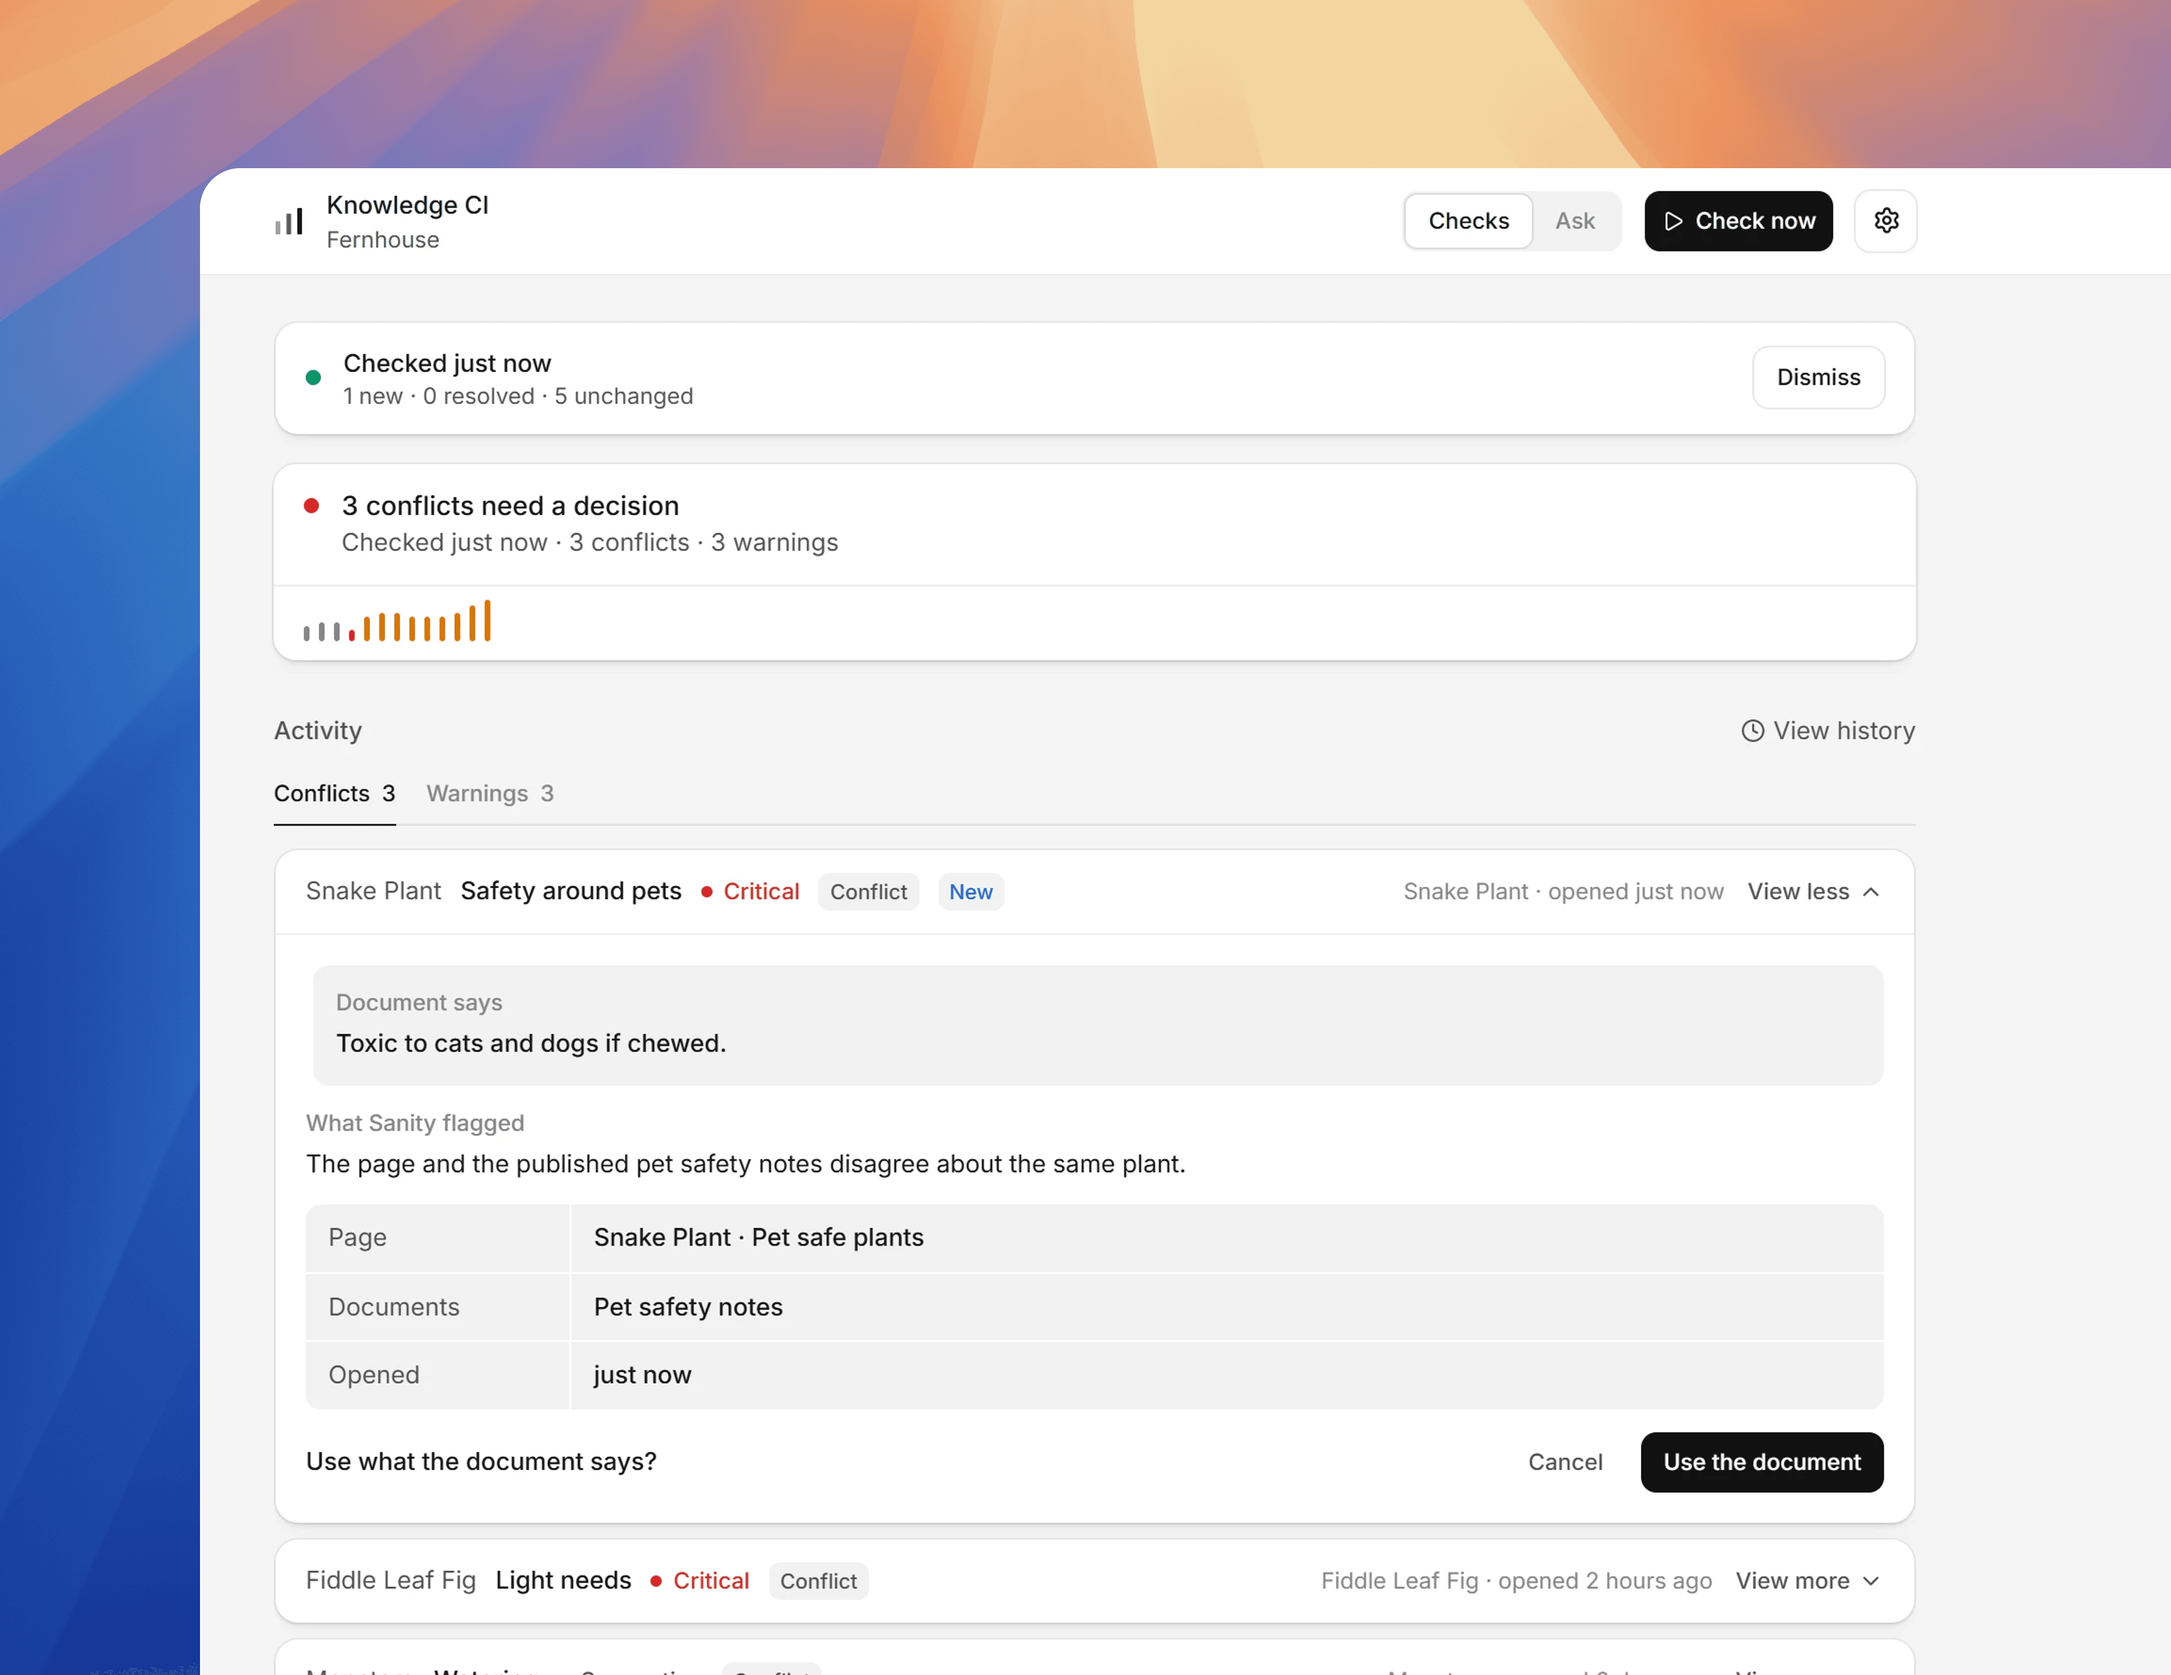
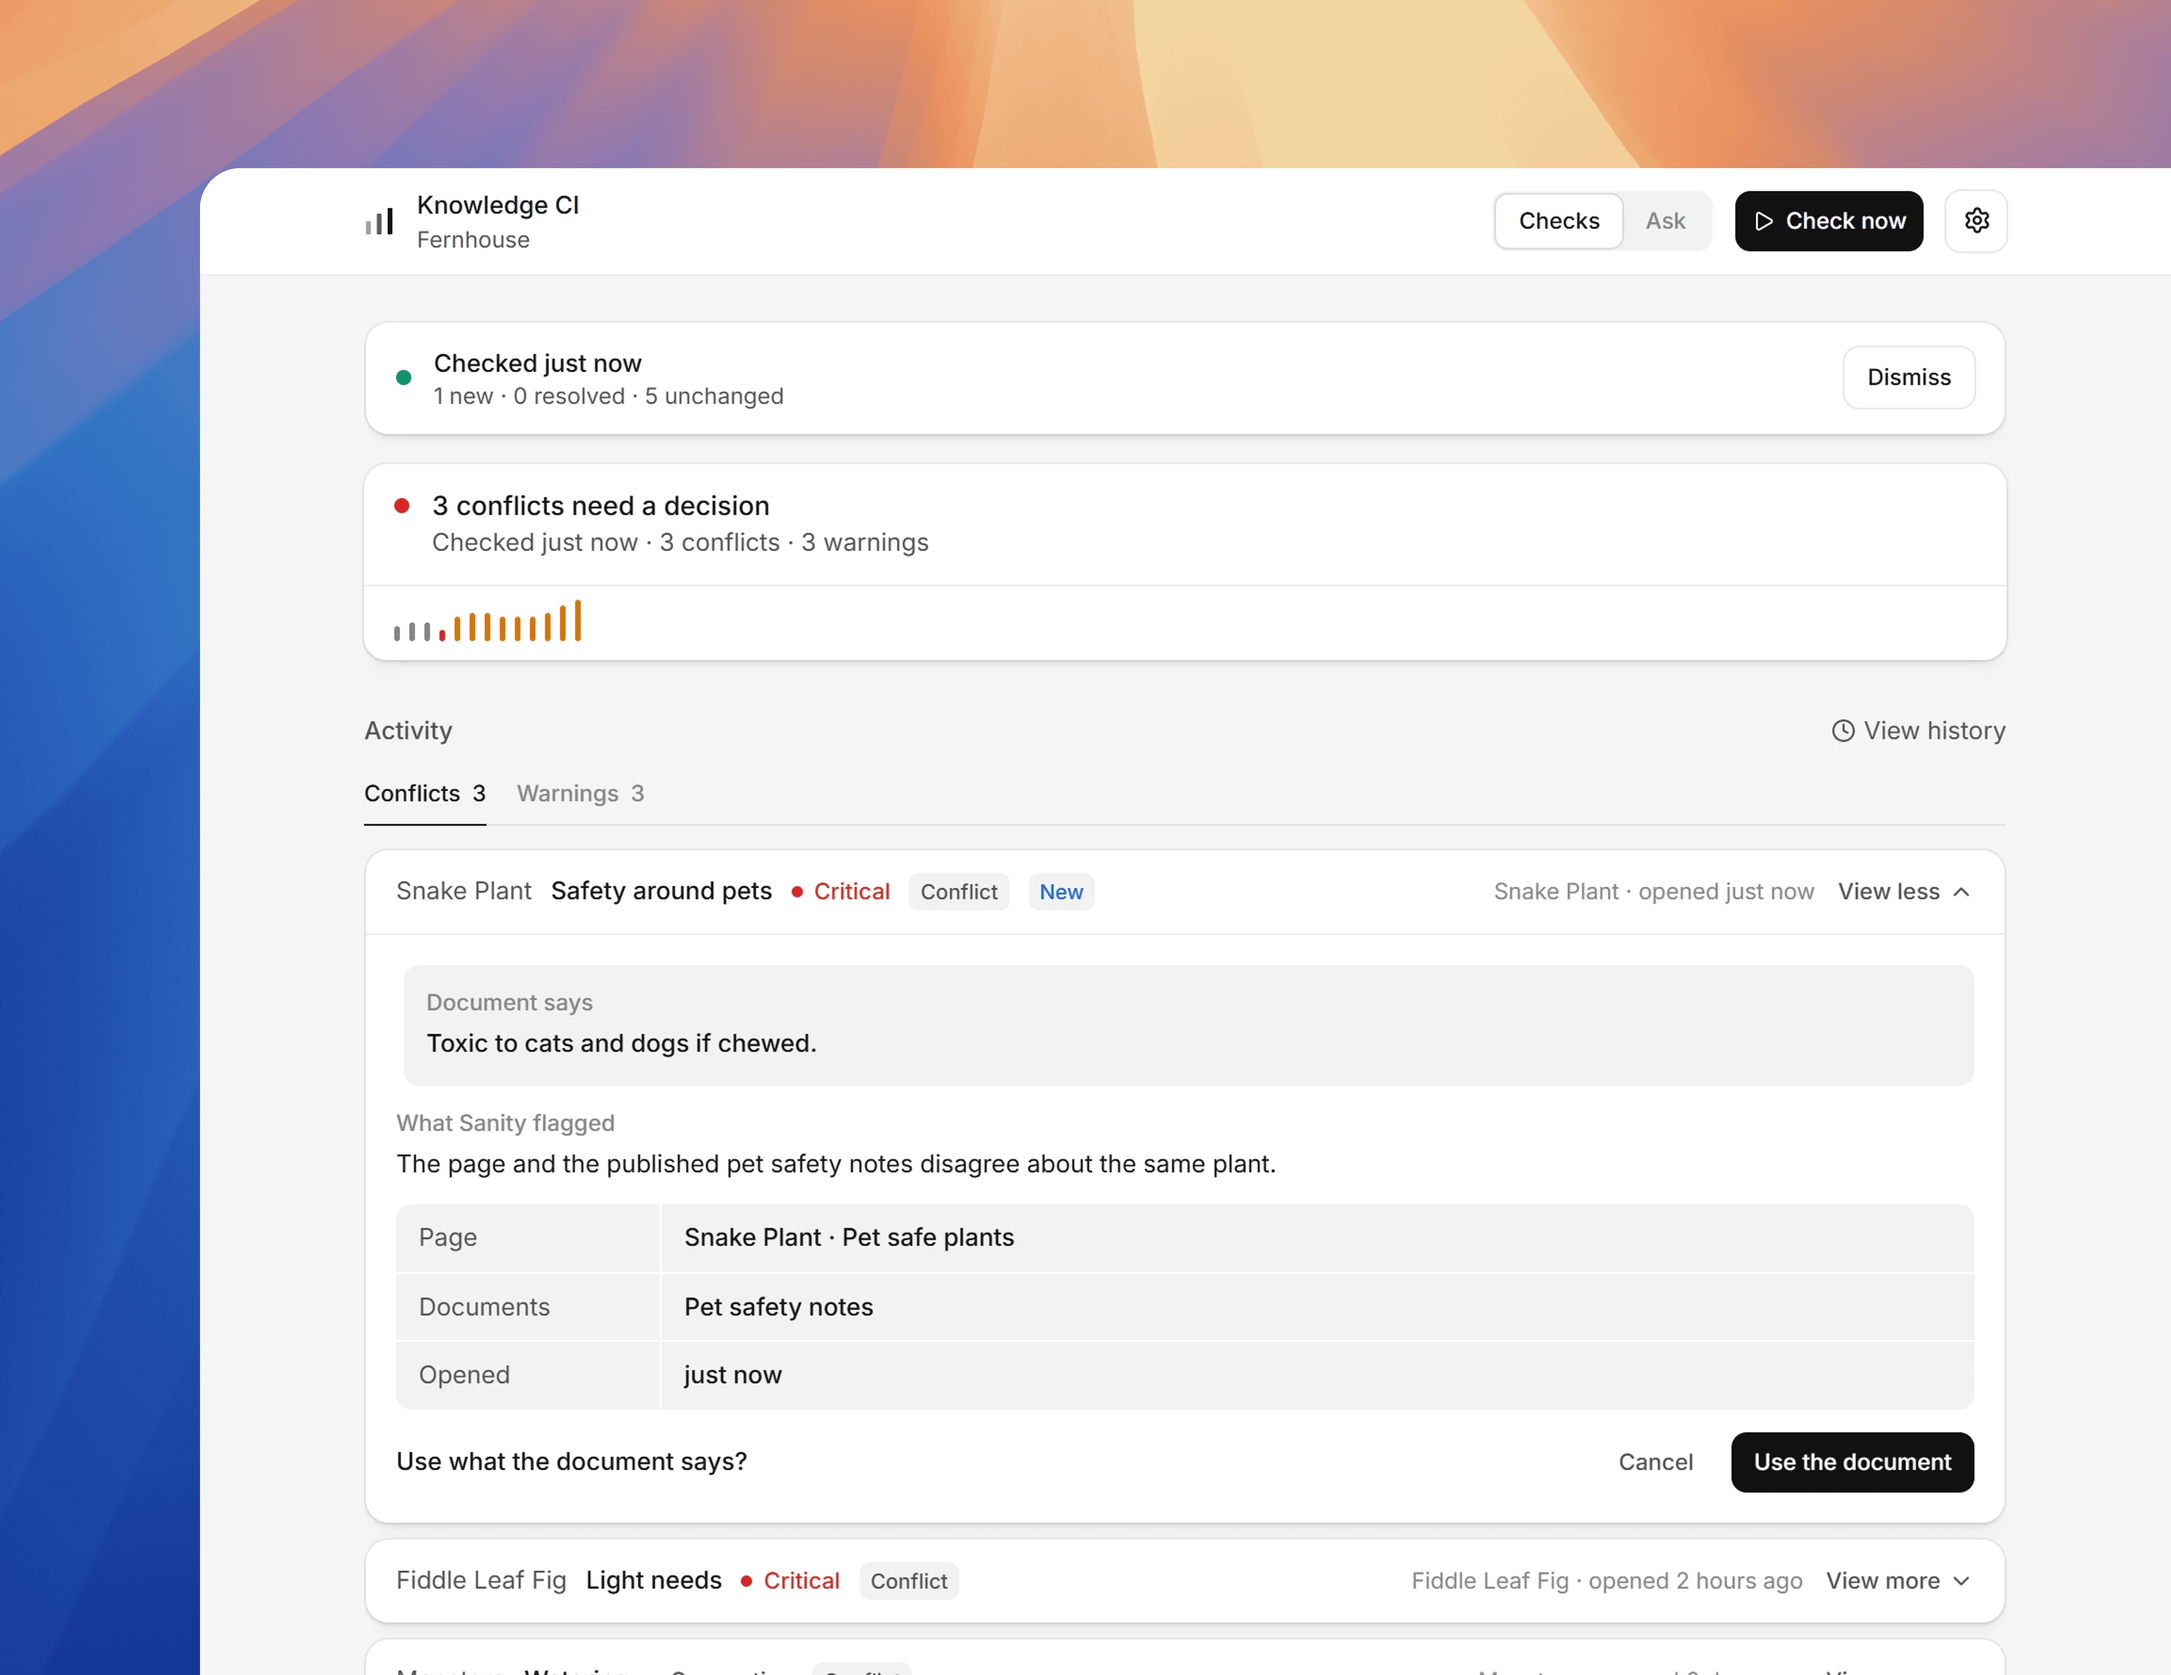
Use Blossom Carousel for the project row and centre the Knowledge CI thumbnail

diff --git a/components/layouts/projects.tsx b/components/layouts/projects.tsx
@@ -1,3 +1,7 @@
+"use client";
+
+import { BlossomCarousel } from "@blossom-carousel/react";
+import "@blossom-carousel/react/style.css";
 import Image from "next/image";
 import Link from "next/link";
 import medibridgeThumbnail from "../../assets/thumbnails/light/medibridge-project-thumbnail.png";
@@ -31,7 +35,7 @@ export function Projects() {
 			<h2 id="projects-heading" className="tight font-medium text-[1rem] text-foreground">
 				Projects
 			</h2>
-			<div className="no-scrollbar -mb-4 mt-2 ml-[calc(50%-50vw)] flex w-screen snap-x gap-8 overflow-x-auto scroll-px-(--gutter) px-(--gutter) py-4 [--gutter:max(1rem,calc(50vw-19rem))] lg:[--gutter:calc(50vw-20rem)]">
+			<BlossomCarousel className="-mb-4 mt-2 ml-[calc(50%-50vw)] flex! w-screen! max-w-none! snap-x gap-8 scroll-px-(--gutter) px-(--gutter) py-4 [--gutter:max(1rem,calc(50vw-19rem))] lg:[--gutter:calc(50vw-20rem)]">
 				{projects.map((project) => (
 					<Link
 						key={project.href}
@@ -51,7 +55,7 @@ export function Projects() {
 						</p>
 					</Link>
 				))}
-			</div>
+			</BlossomCarousel>
 		</section>
 	);
 }
